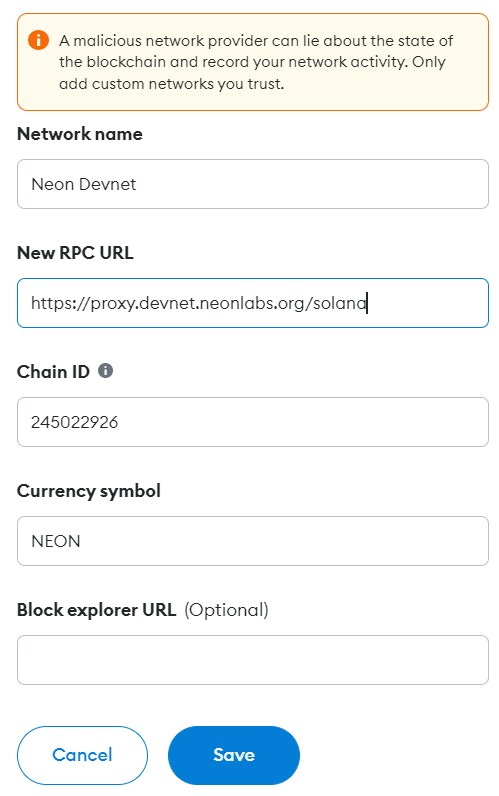
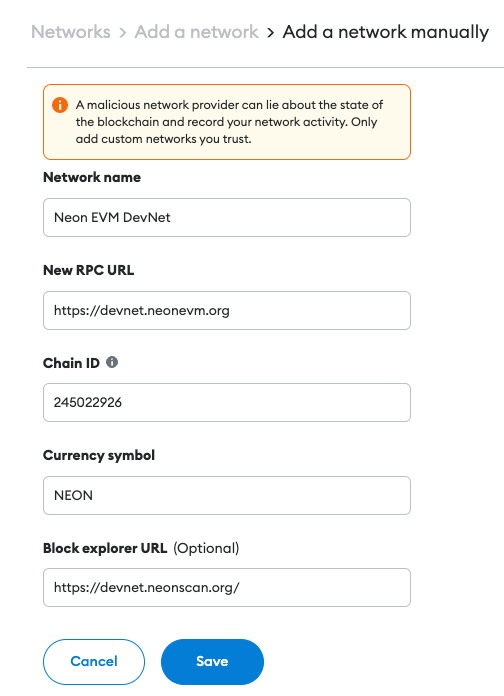
Add tabs for ERC-20 token lists, adjust screenshots, and address other comments (#211)
* Add tabs for ERC-20 token lists

* Cosmetics

* Smaller images and updated screenshot

diff --git a/docs/wallet/metamask_setup.md b/docs/wallet/metamask_setup.md
@@ -9,7 +9,7 @@ MetaMask is a convenient and fairly easy-to-use application for storing Ethereum
 ### Step 1: Install MetaMask
 Go to the MetaMask [download page](https://metamask.io/download.html). From there, select any platform you use and follow the instructions to load and install MetaMask on your device's browser.  
 
-<div className='neon-img-box-600' style={{textAlign: 'center'}}>
+<div className='neon-img-box-600' style={{textAlign: 'center', width: 400, display: 'block', margin: 'auto'}}>
 
 ![](./img/metamask-1.png)
 
@@ -18,7 +18,7 @@ Go to the MetaMask [download page](https://metamask.io/download.html). From ther
 ### Step 2: Add the MetaMask Extension
 MetaMask is essentially a plugin in the form of an extension to a browser. Therefore, MetaMask can be added to your browser as an extension. In the window click `Add extension`.  
 
-<div className='neon-img-width-300' style={{textAlign: 'center'}}>
+<div className='neon-img-width-300' style={{textAlign: 'center', width: 400, display: 'block', margin: 'auto'}}>
 
 ![](./img/metamask-2.png)
 
@@ -46,7 +46,7 @@ Your MetaMask wallet has been successfully installed, configured, and is ready t
 #### Option B: Manual Configuration
 In the MetaMask browser extension's upper-right corner, click the multicolored circle element in the top right. Select "Settings" from the dropdown menu to connect to the proxy server.  
 
-<div className='neon-img-box-600' style={{textAlign: 'center'}}>
+<div className='neon-img-box-600' style={{textAlign: 'center', width: 300, display: 'block', margin: 'auto'}}>
 
 ![](./img/metamask-3.png)
 
@@ -54,7 +54,7 @@ In the MetaMask browser extension's upper-right corner, click the multicolored c
 
 At this point, a window with the settings menu for selecting a network should open.  
 
-<div className='neon-img-box-600' style={{textAlign: 'center'}}>
+<div className='neon-img-box-600' style={{textAlign: 'center', width: 300, display: 'block', margin: 'auto'}}>
 
 ![](img/metamask-4.png)
 
@@ -62,7 +62,7 @@ At this point, a window with the settings menu for selecting a network should op
 
 Add a Network.  
 
-<div className='neon-img-box-600' style={{textAlign: 'center'}}>
+<div className='neon-img-box-600' style={{textAlign: 'center', width: 300, display: 'block', margin: 'auto'}}>
 
 ![](img/metamask-5.png)
 
@@ -72,19 +72,19 @@ The new window contains the settings for six default subnets. You need to use th
 
 Fill in the fields on the next page.
 
-<div className='neon-img-box-300' style={{textAlign: 'center',}}>
+<div className='neon-img-box-300' style={{textAlign: 'center', width: 300, display: 'block', margin: 'auto'}}>
 
 ![](img/metamask-6.png)
 
 </div>
 
-* `Network Name`: "Neon Devnet"
+* `Network Name`: "Neon EVM DevNet"
 * `New RPC URL`: https://devnet.neonevm.org
 * `Chain ID`: 245022926
 * `Currency Symbol`: NEON
 * `Block Explorer URL (optional)`: https://devnet.neonscan.org
 
-> **Note:** The `Chain ID` is specified for [Devnet](https://docs.solana.com/clusters#devnet). To choose [Testnet](https://docs.solana.com/clusters#testnet) or [Mainnet](https://docs.solana.com/clusters#mainnet-beta) in this field, you need to specify the value *245022940* or *245022934*, respectively. The `New RPC URL` must also be changed to either https://testnet.neonevm.org for Testnet, or https://mainnet.neonevm.org	for Mainnet.
+> **Note:** The `Chain ID` is specified for [Devnet](https://docs.solana.com/clusters#devnet). To choose [Testnet](https://docs.solana.com/clusters#testnet) or [Mainnet](https://docs.solana.com/clusters#mainnet-beta) in this field, you need to specify the value *245022940* or *245022934*, respectively. The `New RPC URL` must also be changed to either https://testnet.neonevm.org for Testnet, or https://mainnet.neonevm.org for Mainnet.
 
 The wallet settings depend on the values given for the options mentioned above.
 

diff --git a/docs/tokens/token_list.md b/docs/tokens/token_list.md
@@ -2,18 +2,59 @@
 title: ERC-20 Token List
 ---
 
+import Tabs from '@theme/Tabs';
+import TabItem from '@theme/TabItem';
+
 When performing operations on tokens in the Neon EVM, it is important to know which token symbol or address can be used. Having a list of possible tokens available, you can easily navigate when choosing the token you need.
 
 
 ## Token List
 The list of tokens whose contracts are deployed in Neon EVM and are available to you can be found in the [neonlabsorg/token-list](https://github.com/neonlabsorg/token-list/) repository.
 
-## Mainnet ERC-20 Token Addresses
+## ERC-20 Token Addresses on Neon
 
-In addition to NEON and wNEON tokens, below are some common tokens that are deployed to the Neon Mainnet.
+<Tabs>
+  <TabItem value="mainnet" label="Mainnet" default>
+In addition to NEON and wNEON tokens, below are some common tokens that are deployed to the Neon Mainnet. 
 
-|Token|Address                                   |
+---
+
+|Token|Mainnet Address                           |
 |-----|:-----------------------------------------|
 |USDC |0x341b332b35441c37c1211f02F2C03c1516ac3AC8|
 |USDT |0x5EE2CDe31b5d88A0574DAD2B4bb6A073A5b228a8|
 |wSOL |0x16869acc45BA20abEFB2DdE2096F66373fDe364F|
+  </TabItem>
+  <TabItem value="devnet" label="Devnet">
+
+|Token|Devnet Address                            |
+|-----|:-----------------------------------------|
+|USDT |0x5EFc3A6eD6FDA49702ffb1c65FB433387892b96d|
+|wDAI |0x583E3F2A7a2F78F0ed2bB177563C3D26769e52Ea|
+|USDC |0x8A56FA4d0768c5f15C88E40D4256F41819AbaD56|
+|ETH  |0x20e78b0F0B2bc466F06cb1EBD2D00E7CDD503839|
+|wBTC |0x680dab473Bc8316cD3DE0024AE86fbCdF5211597|
+|AAVE |0xBdd4cDAf6c9bbb6979d043512e7940f869B06b8C|
+|wCRV |0xf45c9FBef4B7e8487173550D66bDE9Cf8990B23b|
+|SUSHI|0xC2bbccFC86436B0e25DF31714C4712E3B5e06061|
+|wBAL |0x5739b129e69e7FB16e52d11B9EF50A6eFdc3cec9|
+|wSOL |0xeFAB85fb00dd005d08C6759c4799cdeD1399243E|  
+  </TabItem>
+
+<TabItem value="testnet" label="Testnet">
+
+|Token|Testnet Address                           |
+|-----|:-----------------------------------------|
+|USDT |0x5EE2CDe31b5d88A0574DAD2B4bb6A073A5b228a8|
+|wDAI |0x437c2606460cf14cbD33F5E266a2FaD044C5b74c|
+|USDC |0x341b332b35441c37c1211f02F2C03c1516ac3AC8|
+|ETH  |0xbd5C9b22c9e0C41fE93aA863Da1402306A76d4fe|
+|wBTC |0x7Db49A319636818f38dc2d12B51b13192e1b9141|
+|AAVE |0x142Ec1Db2dc73932AE590C429D2BFd13732b70e2|
+|wCRV |0x633AC0dE8749f6c2fACb73665a05c622a272f291|
+|SUSHI|0xa2b3D9E1E92Af208Ed6bc41d4428e500569Af66F|
+|wBAL |0x42D8b8A634F8e65e799BF762054647e589b4F73a|
+|wSOL |0x16869acc45BA20abEFB2DdE2096F66373fDe364F|  
+  
+  </TabItem>
+</Tabs>
